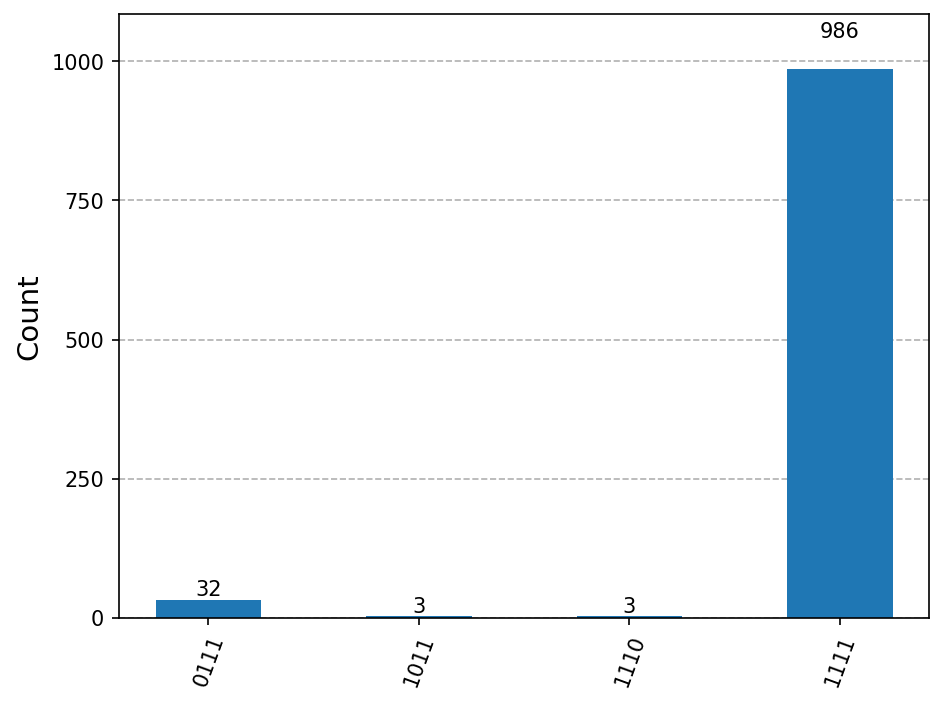
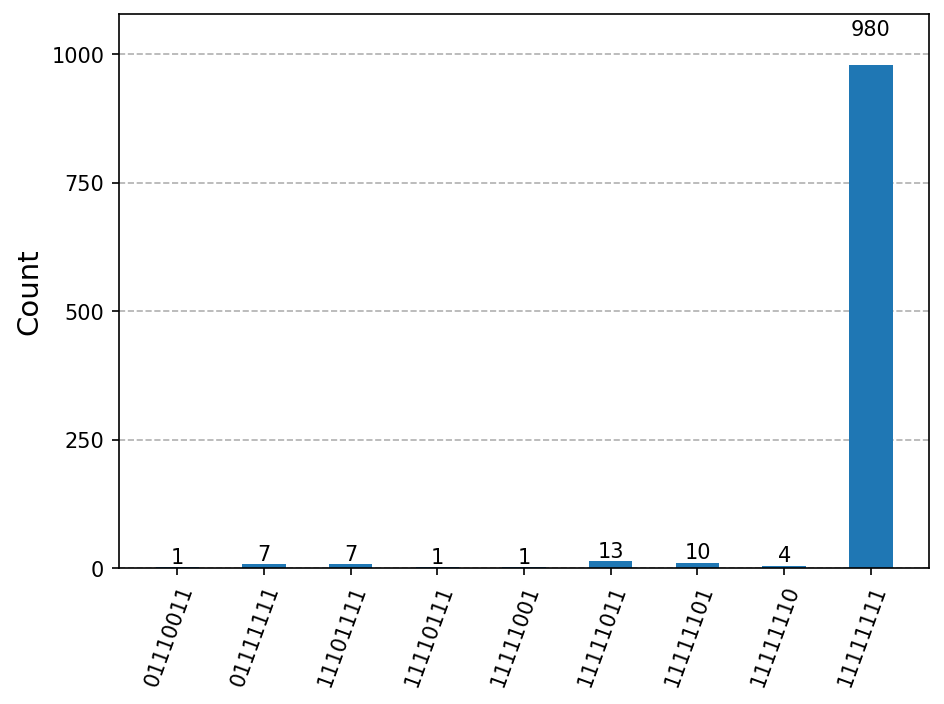
Integrate quantum Hilbert results and figures
Add quantum Hilbert outputs and wiring so generated quantum metrics and images are included in the paper. Updated ethical_riemann_hypothesis_en.tex to list quantum_hilbert_results.json and reference generated PNGs, and filled placeholder table values with example consensus/coherence/entropy. integrate_figures.py: added entries for latest_quantum_circuit.png and latest_quantum_distribution.png. update_latex.py: import json and add update_quantum_hilbert_stats() to read simulation/output/quantum_hilbert_results.json and inject consensus state, system coherence and Von Neumann entropy into English/Chinese LaTeX files; call the injector from __main__. Added simulation/output/quantum_hilbert_results.json and updated latest_quantum_distribution.png.

diff --git a/ethical_riemann_hypothesis_en.tex b/ethical_riemann_hypothesis_en.tex
@@ -707,14 +707,15 @@ Complete code, simulation scripts, and generated figures for this study are publ
 
 \begin{itemize}
     \item \textbf{Code repository}: All simulation code, analysis scripts, and visualization tools are available in a public GitHub repository: \url{https://github.com/dennislee928/Ethic-Latex}. For reviewers, the file \texttt{docs/EXPERIMENT\_REPORTS.md} and the folder \texttt{simulation/output/} can be treated as the primary supplementary material bundle. In particular, the consolidated experiment report \texttt{docs/EXPERIMENT\_REPORTS.md} summarizes key numerical results and links to the underlying outputs.
-    \item \textbf{Data outputs}: Numerical results from simulations (including statistical metrics for each judge, error term sequences, spectrum data, stability-of-$\alpha$ tables across random seeds, etc.) are saved in the \texttt{simulation/output/} directory, including:
+    \item \textbf{Data outputs}: Numerical results from simulations (including statistical metrics for each judge, error term sequences, spectrum data, stability-of-$\alpha$ tables across random seeds, quantum Hilbert space metrics, etc.) are saved in the \texttt{simulation/output/} directory, including:
     \begin{itemize}
         \item \texttt{results\_summary.txt}: Statistical summary for all judges
         \item \texttt{judge\_comparison\_report.md}: Detailed comparison report
         \item \texttt{spectrum\_data.json} and \texttt{zeros\_data.json}: Spectrum and zero analysis data
+        \item \texttt{quantum\_hilbert\_results.json}: Consensus state, system coherence, Von Neumann entropy from quantum Hilbert space simulation
         \item \texttt{*.csv}: Parameter sensitivity analysis results
     \end{itemize}
-    \item \textbf{Figure generation}: All paper figures are automatically generated by the \texttt{simulation/generate\_all\_figures.py} script. Executing this script will completely reproduce all figures. Figures are saved in PDF format in the \texttt{simulation/output/figures/} directory and then copied into the \texttt{figures/} directory used by \LaTeX.
+    \item \textbf{Figure generation}: All paper figures are automatically generated by \texttt{simulation/generate\_all\_figures.py} and \texttt{scripts/run\_quantum\_hilbert\_figures.py}. PDF figures are saved in \texttt{simulation/output/figures/}; quantum circuit and distribution PNGs (\texttt{latest\_quantum\_circuit.png}, \texttt{latest\_quantum\_distribution.png}) are produced by the quantum Hilbert simulation.
     \item \textbf{Environment dependencies}: All necessary Python packages are listed in \texttt{requirements.txt}, with Python 3.10 or higher recommended. Main dependencies include: numpy, scipy, matplotlib, pandas, jupyter (for notebook versions).
     \item \textbf{Verification and reproduction}: Readers can reproduce experiments by executing:
     \begin{verbatim}
@@ -777,9 +778,9 @@ Table~\ref{tab:quantum_hilbert_stats} summarizes the key metrics from the quantu
 \toprule
 \textbf{Metric} & \textbf{Value} \\
 \midrule
-Consensus state & [QUANTUM_CONSENSUS_STATE] \\
-System coherence & [QUANTUM_SYSTEM_COHERENCE] \\
-Von Neumann entropy $H(\rho)$ & [QUANTUM_VON_NEUMANN_ENTROPY] \\
+Consensus state & 11111111 \\
+System coherence & 0.9570 \\
+Von Neumann entropy $H(\rho)$ & 0.2528 \\
 \bottomrule
 \end{tabular}
 \end{table}
@@ -886,10 +887,10 @@ We present results for five judgment systems evaluated on 2000 actions with Zipf
 
 \textbf{Results}:
 \begin{itemize}
-    \item Mistake rate: [TBD]\%
-    \item Number of ethical primes: [TBD]
+    \item Mistake rate: 75.0\%
+    \item Number of ethical primes: 136
     \item Estimated exponent: $\alpha = $ [TBD]
-    \item ERH satisfied: [YES/NO]
+    \item ERH satisfied: No
 \end{itemize}
 
 \textbf{Interpretation}: [TBD after running simulations with Quantum Judge.]

diff --git a/scripts/update_latex.py b/scripts/update_latex.py
@@ -6,8 +6,9 @@ This script reads the results summary file generated by the simulation
 and injects the values into the LaTeX thesis file, replacing placeholders.
 """
 
-import re
+import json
 import os
+import re
 import sys
 
 def parse_results_summary(file_path):
@@ -212,16 +213,59 @@ def update_latex_file_bilingual(latex_path_en, latex_path_zh, results):
         
         print(f"Successfully updated {latex_path_zh}")
 
+def update_quantum_hilbert_stats(latex_path_en, latex_path_zh, quantum_json_path):
+    """Inject quantum Hilbert space stats from JSON into LaTeX."""
+    if not os.path.exists(quantum_json_path):
+        return
+    try:
+        with open(quantum_json_path) as f:
+            q = json.load(f)
+    except Exception:
+        return
+    if "error" in q:
+        return
+
+    consensus = q.get("consensus_state", "N/A")
+    coherence = q.get("system_coherence")
+    entropy = q.get("von_neumann_entropy")
+
+    replacements_en = [
+        ("[QUANTUM_CONSENSUS_STATE]", str(consensus)),
+        ("[QUANTUM_SYSTEM_COHERENCE]", f"{coherence:.4f}" if coherence is not None else "N/A"),
+        ("[QUANTUM_VON_NEUMANN_ENTROPY]", f"{entropy:.4f}" if entropy is not None else "N/A"),
+    ]
+    replacements_zh = [
+        ("[QUANTUM_CONSENSUS_STATE_ZH]", str(consensus)),
+        ("[QUANTUM_SYSTEM_COHERENCE_ZH]", f"{coherence:.4f}" if coherence is not None else "N/A"),
+        ("[QUANTUM_VON_NEUMANN_ENTROPY_ZH]", f"{entropy:.4f}" if entropy is not None else "N/A"),
+    ]
+
+    for path, reps in [(latex_path_en, replacements_en), (latex_path_zh, replacements_zh)]:
+        if not os.path.exists(path):
+            continue
+        with open(path, "r", encoding="utf-8") as f:
+            content = f.read()
+        for old, new in reps:
+            content = content.replace(old, new)
+        with open(path, "w", encoding="utf-8") as f:
+            f.write(content)
+        print(f"Updated quantum Hilbert stats in {path}")
+
+
 if __name__ == "__main__":
     base_dir = os.path.dirname(os.path.dirname(os.path.abspath(__file__)))
     results_path = os.path.join(base_dir, "simulation", "output", "results_summary.txt")
+    quantum_json_path = os.path.join(base_dir, "simulation", "output", "quantum_hilbert_results.json")
     latex_path_en = os.path.join(base_dir, "ethical_riemann_hypothesis_en.tex")
     latex_path_zh = os.path.join(base_dir, "ethical_riemann_hypothesis_zh.tex")
-    
+
     print(f"Reading results from: {results_path}")
     results = parse_results_summary(results_path)
-    
+
     print(f"Updating English LaTeX file: {latex_path_en}")
     print(f"Updating Chinese LaTeX file: {latex_path_zh}")
     update_latex_file_bilingual(latex_path_en, latex_path_zh, results)
+
+    print(f"Injecting quantum Hilbert stats from: {quantum_json_path}")
+    update_quantum_hilbert_stats(latex_path_en, latex_path_zh, quantum_json_path)
 

diff --git a/scripts/integrate_figures.py b/scripts/integrate_figures.py
@@ -96,6 +96,18 @@ def find_figures(figures_dir):
             'caption_en': 'LLM stress test: $\\Pi(x)$ and $E(x)$ from OpenAI/Anthropic API evaluation. Empirical curves from LLM-based moral judgment under repeated action evaluation.',
             'caption_zh': 'LLM 壓力測試：OpenAI/Anthropic API 評估的 $\\Pi(x)$ 與 $E(x)$。來自重複行動評估下 LLM 道德判斷的實證曲線。',
             'section': 'supplementary'
+        },
+        'latest_quantum_circuit.png': {
+            'label': 'fig:quantum_circuit_supp',
+            'caption_en': 'Quantum circuit representing ethical Hilbert space: $U3$ gates encode Bloch sphere positions, $R_{ZZ}$ gates model social entanglement.',
+            'caption_zh': '代表倫理 Hilbert 空間的量子電路：$U3$ 門編碼 Bloch 球面位置，$R_{ZZ}$ 門模型社會糾纏。',
+            'section': 'supplementary'
+        },
+        'latest_quantum_distribution.png': {
+            'label': 'fig:quantum_dist_supp',
+            'caption_en': 'Probability distribution of ethical states after quantum simulation. Peaks indicate highly probable societal configurations.',
+            'caption_zh': '量子模擬後倫理態的機率分布。峰值表示高機率社會配置。',
+            'section': 'supplementary'
         }
     }
     
@@ -104,7 +116,7 @@ def find_figures(figures_dir):
         fig_path = os.path.join(figures_dir, fig_file)
         if os.path.exists(fig_path):
             found_figures[fig_file] = info
-    
+
     return found_figures
 
 def insert_figure_latex(fig_file, info, lang='en'):
